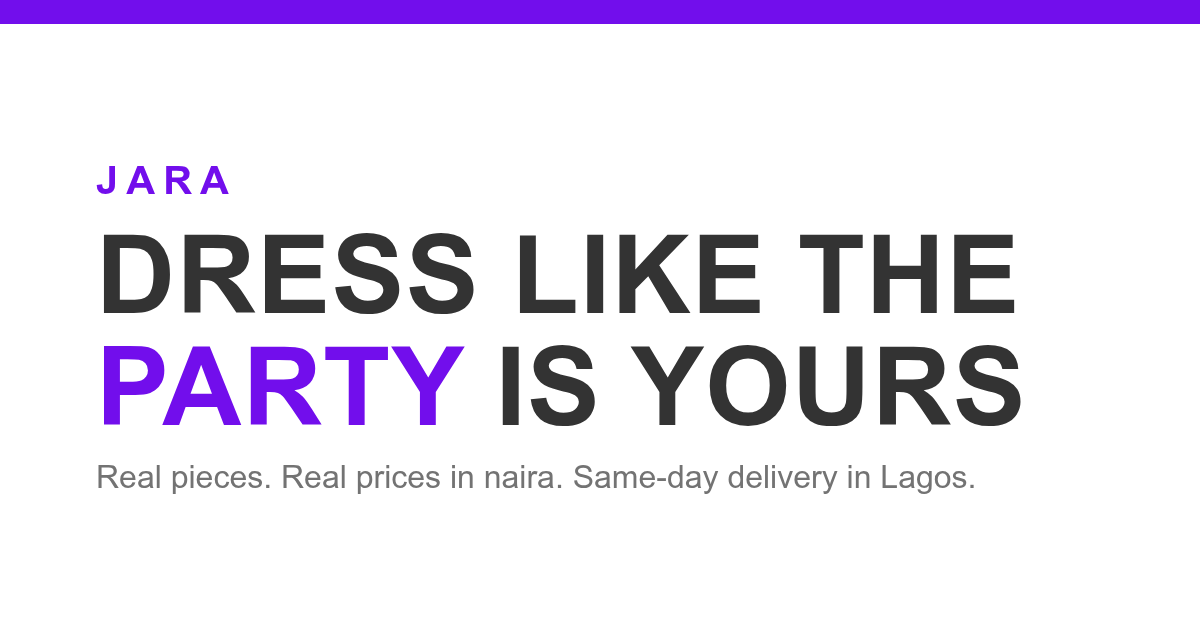
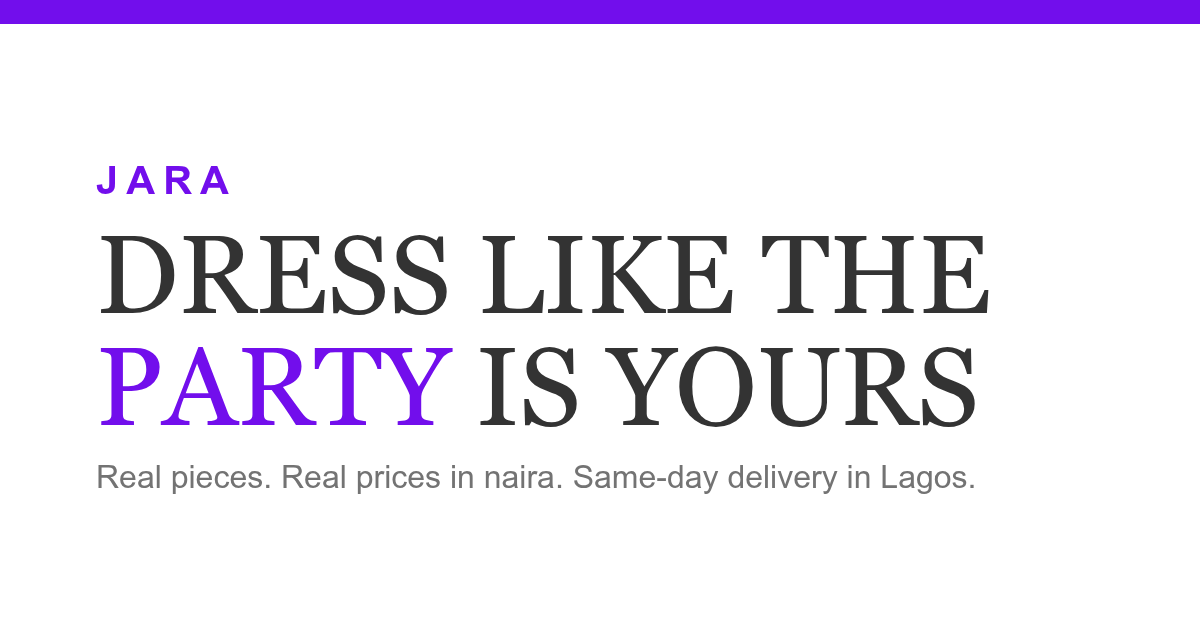
Montserrat body + Garamond headers
Swap type system per request; regenerate baseline and OG.

Changed region(s): [[0.0617, 0.3619, 0.8633, 0.5127], [0.0617, 0.5429, 0.8633, 0.6937]]

diff --git a/src/app/layout.tsx b/src/app/layout.tsx
@@ -1,18 +1,19 @@
 import type { Metadata } from "next";
-import { Open_Sans, Roboto_Condensed } from "next/font/google";
+import { EB_Garamond, Montserrat } from "next/font/google";
 import { Providers } from "./providers";
 import { CartProvider } from "@/components/cart-provider";
 import { SiteHeader } from "@/components/site-header";
 import { SiteFooter } from "@/components/site-footer";
 import "./globals.css";
 
-const display = Roboto_Condensed({
-  weight: ["400", "700"],
+const display = EB_Garamond({
+  weight: ["400", "500", "600", "700"],
   subsets: ["latin"],
   variable: "--font-display",
 });
 
-const sans = Open_Sans({
+const sans = Montserrat({
+  weight: ["400", "500", "600", "700"],
   subsets: ["latin"],
   variable: "--font-sans",
 });

diff --git a/src/app/globals.css b/src/app/globals.css
@@ -1,8 +1,8 @@
 @import "tailwindcss";
 
 @theme {
-  --font-display: "Roboto Condensed", "Arial Narrow", sans-serif;
-  --font-sans: "Open Sans", system-ui, -apple-system, sans-serif;
+  --font-display: "EB Garamond", Georgia, serif;
+  --font-sans: "Montserrat", system-ui, -apple-system, sans-serif;
 
   --color-paper: #ffffff;
   --color-mist: #f4f4f5;

diff --git a/docs/footprint.md b/docs/footprint.md
@@ -17,8 +17,8 @@
 - **Env / secrets needed:** OPENAI_API_KEY (BYO, server actions only), FIRECRAWL_API_KEY, AGENTMAIL_API_KEY, CONVEX_URL
 
 ## 2. Current state (update every task — 3 lines max)
-- **Last known good:** 2026-09-21 — persona fixes green: lint clean, build, unit 15 pass, e2e 3 pass
-- **Now working on:** Human inputs and submission assets; persona batch needs redeploy to convex.site
+- **Last known good:** 2026-09-21 — Montserrat/Garamond type swap green: build, e2e 3 pass, baseline updated
+- **Now working on:** Submission assets (demo video, social post, vibeapps)
 - **Blocked / needs human:** Dera's EMAIL address; Dera to confirm sizes/fabrics; AGENTMAIL_INBOX_ID still missing (sends queue without it)
 
 ## 3. Decisions (why, not what — append, never rewrite)
@@ -156,3 +156,8 @@
 - Reason: activate vendor orders view + real sends/OTP delivery
 - Checks: checkPin true on correct PIN, false on wrong PIN
 - Notes: AGENTMAIL_INBOX_ID still missing so sends still queue; prod code deploy still pending
+## 2026-09-21 — Pushed + deployed to prod
+- Changed: committed b93c3e7, pushed to GitHub; backend via `convex deploy --yes`; frontend via static-hosting --skip-convex
+- Reason: ship redesign + persona batch to the live business URL
+- Checks: live site verified at runtime — 57 owambe + 26 church + 15 street = 98 listings, new UI serving
+- Notes: non-interactive deploy needs --yes flag; static HTML shows 0 counts pre-hydration (normal); INBOX_ID still missing
